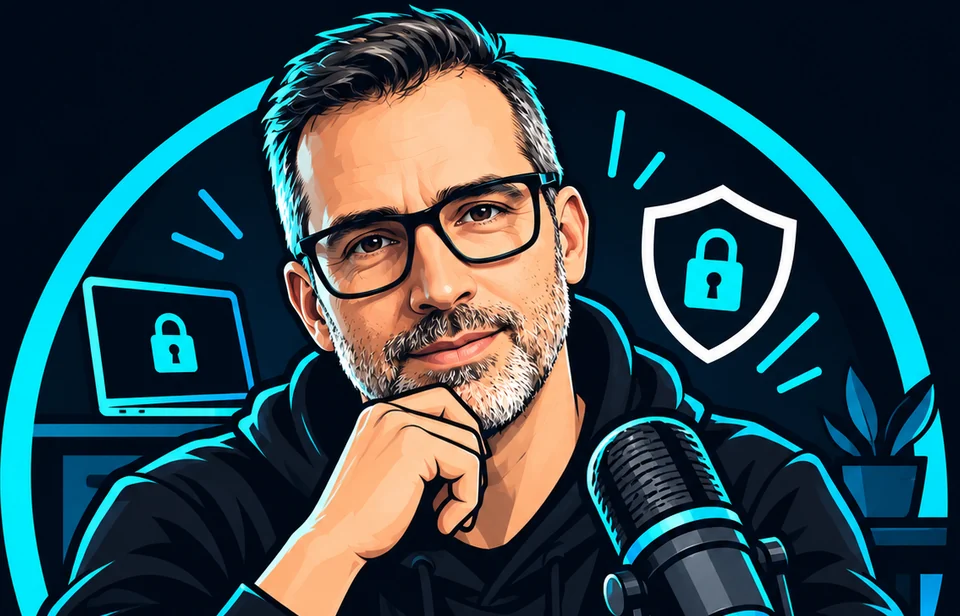
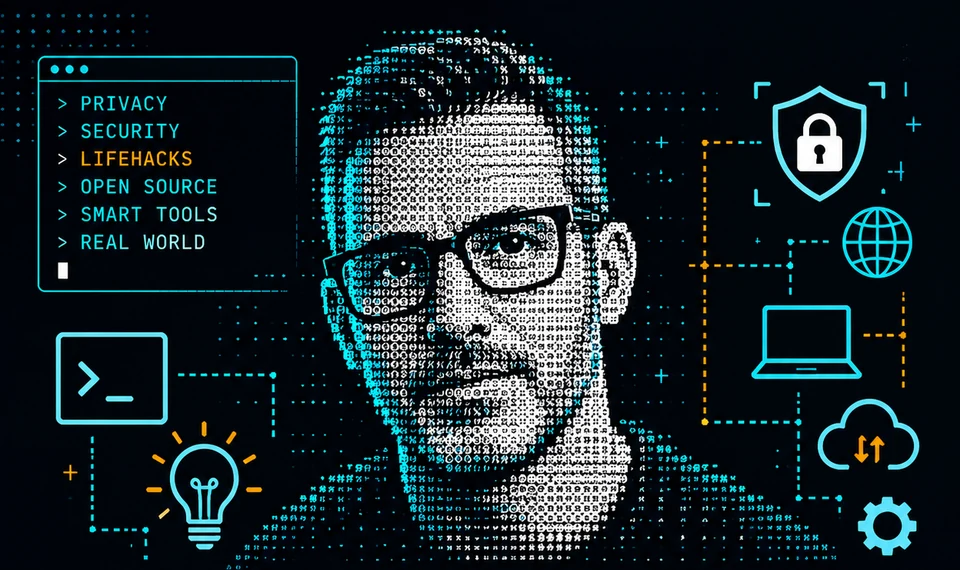
Add files via upload

diff --git a/index.html b/index.html
@@ -55,7 +55,7 @@
       <p class="hero__tagline">Rövid. Gyakorlatias. Közérthető.</p>
     </div>
     <div class="hero__art">
-      <img class="hero__portrait" src="assets/images/pedro-portrait.webp" width="960" height="616" alt="Pedro, a SecHack podcast házigazdája kézre támasztott állal, mellette mikrofon, pajzs és lakat ikon" fetchpriority="high">
+      <img class="hero__portrait" src="assets/images/pedro-portrait.webp" width="960" height="570" alt="Pedro pontozott stílusú portréja szemüvegben, körülötte pajzs, lakat, laptop és felhő ikonok" fetchpriority="high">
       <div class="hero__badge hero__badge--wave" aria-hidden="true"><svg class="icon" aria-hidden="true" focusable="false"><use href="#i-mic"></use></svg><div><strong>Podcast</strong><span class="wave"><i></i><i></i><i></i><i></i><i></i><i></i><i></i></span></div></div>
       <div class="hero__badge hero__badge--shield" aria-hidden="true"><svg class="icon" aria-hidden="true" focusable="false"><use href="#i-shield-check"></use></svg><div><strong>SecHack</strong>Digitális biztonság</div></div>
     </div>
@@ -103,7 +103,7 @@
 
 <section class="section section--alt" aria-labelledby="about-title">
   <div class="container about">
-    <div class="about__media"><img src="assets/images/pedro-avatar.webp" width="320" height="320" loading="lazy" alt="Pedro rajzolt portréja szemüvegben, kezét az álla alá támasztva"></div>
+    <div class="about__media"><img src="assets/images/pedro-avatar.webp" width="320" height="320" loading="lazy" alt="Pedro pontozott stílusú portréja szemüvegben"></div>
     <div>
       <p class="eyebrow">A házigazda</p>
       <h2 id="about-title">Ismerd meg Pedrót</h2>

diff --git a/assets/css/styles.css b/assets/css/styles.css
@@ -161,7 +161,7 @@ button, input { font: inherit; color: inherit; }
 .hero__actions { display: flex; flex-wrap: wrap; gap: var(--s-3); margin-bottom: var(--s-5); }
 .hero__tagline { font-family: var(--font-mono); font-size: .85rem; letter-spacing: .06em; color: var(--text-3); margin: 0; }
 .hero__art { position: relative; max-width: 600px; width: 100%; margin-inline: auto; }
-.hero__portrait { border-radius: var(--r-lg); border: 1px solid var(--border); background: var(--bg-2); aspect-ratio: 960 / 616; width: 100%; object-fit: cover; box-shadow: 0 30px 60px -30px rgba(0,0,0,.9), 0 0 80px -30px rgba(0,230,246,.35); }
+.hero__portrait { border-radius: var(--r-lg); border: 1px solid var(--border); background: var(--bg-2); aspect-ratio: 960 / 570; width: 100%; object-fit: cover; box-shadow: 0 30px 60px -30px rgba(0,0,0,.9), 0 0 80px -30px rgba(0,230,246,.35); }
 .hero__badge { position: absolute; display: flex; align-items: center; gap: var(--s-3); background: rgba(13,32,51,.94); border: 1px solid var(--border); border-radius: var(--r-md); padding: 10px 14px; font-size: .82rem; color: var(--text-2); box-shadow: var(--shadow-card); }
 .hero__badge strong { display: block; color: var(--text); font-size: .86rem; line-height: 1.2; }
 .hero__badge .icon { width: 1.6rem; height: 1.6rem; color: var(--cyan); }

diff --git a/about.html b/about.html
@@ -52,7 +52,7 @@
 
 <section class="section">
   <div class="container about">
-    <div class="about__media"><img src="assets/images/pedro-avatar.webp" width="320" height="320" alt="Pedro rajzolt portréja szemüvegben, kezét az álla alá támasztva"></div>
+    <div class="about__media"><img src="assets/images/pedro-avatar.webp" width="320" height="320" alt="Pedro pontozott stílusú portréja szemüvegben"></div>
     <div class="prose">
       <h2>Mi a SecHack?</h2>
       <p>A SecHack egy rövid, IT-biztonsági lifehack podcast, amelyből megtudhatod, hogyan használhatod biztonságosabban a digitális eszközeidet – anélkül, hogy sokat kellene költened.</p>

diff --git a/README.md b/README.md
@@ -40,7 +40,7 @@ Edit a file on GitHub (pencil icon) or push new commits. Pages redeploys automat
 
 ## 6. Replace the logo and portrait
 Keep the filenames, or update the references in the HTML.
-- `assets/images/pedro-portrait.webp` — hero image, 960×616 px.
+- `assets/images/pedro-portrait.webp` — hero image, 960×570 px.
 - `assets/images/pedro-avatar.webp` — square face crop (320×320) used on episode cards and About.
 - `assets/images/sechack-logo.png` / `.webp` — full logo (not used in the nav; the nav logo is HTML/CSS text: “Sec” white + “Hack” cyan). `sechack-wordmark.webp` is the wordmark with the “Pedro @ SecHack” signature, ready for use where a wide logo is needed.
 - `assets/images/og-image.png` — social share image, 1200×630.
